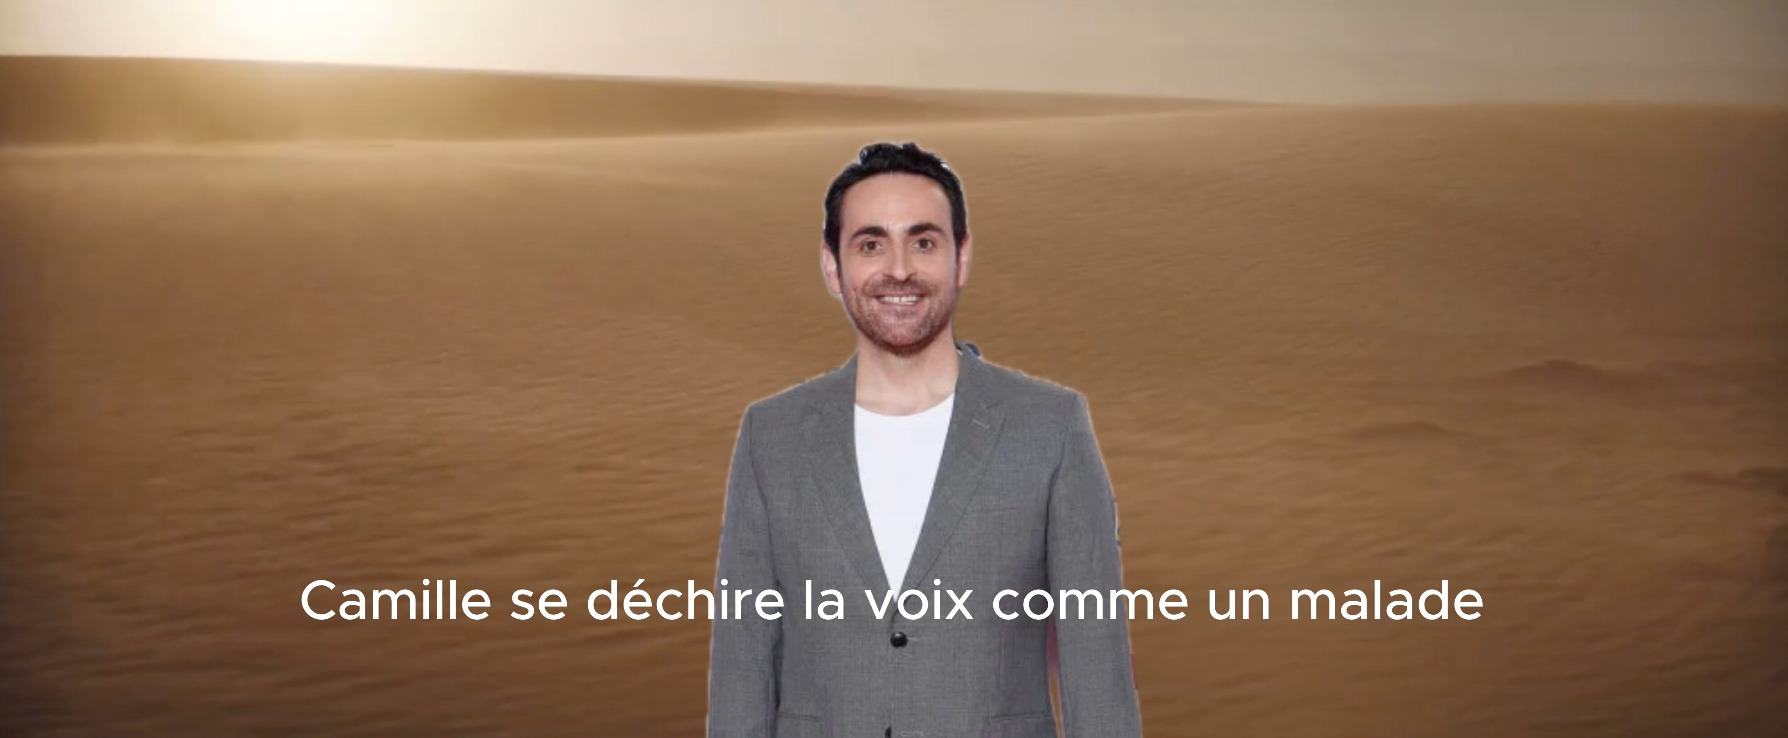
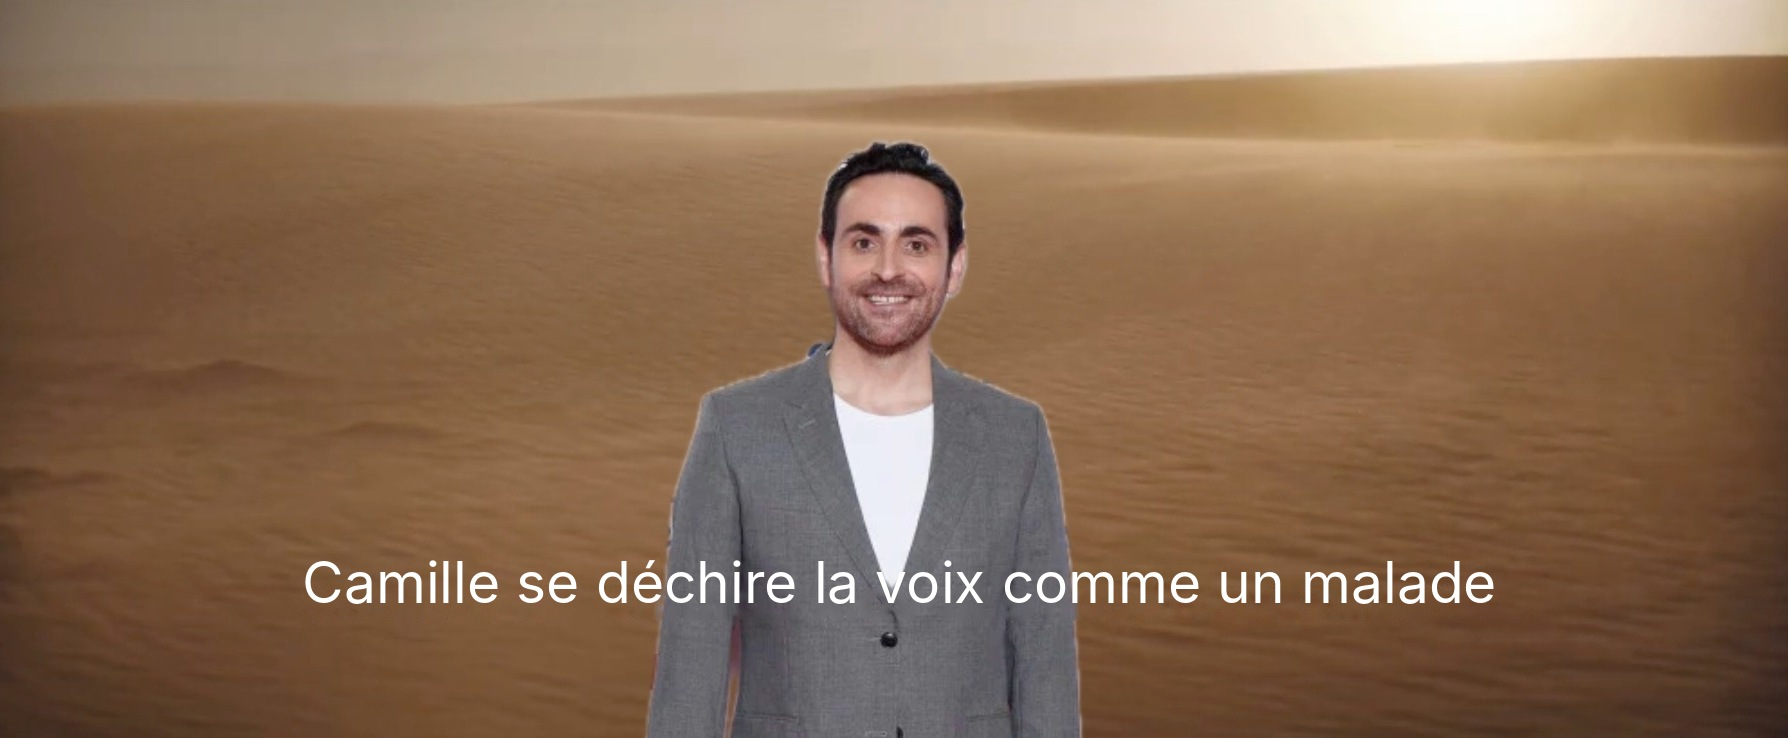
Dune #9 : miroir réf + clean (soleil à droite), lumière mise à jour
Claude-Session: https://claude.ai/code/session_015182LFh91P53rg7UUMPXi4

diff --git a/index.html b/index.html
@@ -113,9 +113,9 @@ nav.days a:focus-visible,.pic:focus-visible,button:focus-visible{outline:3px sol
 <dl class="grid"><div><dt>Diaph</dt><dd>f/4</dd></div><div><dt>Distance</dt><dd>4,2 m</dd></div><div><dt>Hauteur caméra</dt><dd>1,55 m</dd></div><div><dt>Inclinaison</dt><dd>légère contre-plongée 3°</dd></div></dl>
 <div class="light"><h4>Lumière</h4><p>Lumière de conférence plate et frontale, haute (≈ 5600 K), fond LED bleu WEF.</p><p class="ratio"><span>Ratio ≈ 1,2:1 (≈ 0,3 IL) · Key : frontale haute (conférence) · Contre : non</span></p></div><p class="vfx">Fond vert</p><p class="lfx"><span class="lfxv">—</span></p></div></div></div><div class="shot isref"><div class="shot-pic"><button class="pic" type="button" data-full="img/014.jpg" data-cap="RÉFÉRENCE (non tournée) · Macron / Atol · Personnage Atol (réf. look)" aria-label="Agrandir l&#39;image"><img src="img/014.jpg" alt="RÉFÉRENCE (non tournée) · Macron / Atol · Personnage Atol (réf. look)" loading="lazy" width="927" height="944"><span class="zoom">Agrandir</span></button><button class="lkbtn" type="button" data-img="img/014.jpg" data-cap="RÉFÉRENCE (non tournée) · Macron / Atol · Personnage Atol (réf. look)">◉ Incruste live</button></div><div class="shot-info"><p class="plan"><span class="refbadge">Référence · non tournée</span>Personnage Atol (réf. look)</p>
 <div class="light"><h4>Lumière</h4><p>—</p></div><p class="vfx">Chemise hawaïenne, Ray-Ban</p><p class="lfx"><span class="lfxv">—</span></p></div></div></article><article class="seq"><div class="keep"><h2>Dune</h2><p class="src">Origine : ARRI Alexa 65 + Mini LF, optiques sphériques Moviecam re-boîtées, pas d&#x27;anamorphique (British Cinematographer).</p><button class="vidbtn" type="button" data-src="vid/dune.mp4" data-cap="Vidéo de référence · Dune"><span class="pl">▶</span> Voir la vidéo de référence</button><div class="shot isref"><div class="shot-pic"><button class="pic" type="button" data-full="img/015.jpg" data-cap="RÉFÉRENCE (non tournée) · Dune · Plan large désert (réf. – non tourné)" aria-label="Agrandir l&#39;image"><img src="img/015.jpg" alt="RÉFÉRENCE (non tournée) · Dune · Plan large désert (réf. – non tourné)" loading="lazy" width="1788" height="743"><span class="zoom">Agrandir</span></button><button class="lkbtn" type="button" data-img="img/015.jpg" data-cap="RÉFÉRENCE (non tournée) · Dune · Plan large désert (réf. – non tourné)" data-vid="vid/dune.mp4">◉ Incruste live</button></div><div class="shot-info"><p class="plan"><span class="refbadge">Référence · non tournée</span>Plan large désert (réf. – non tourné)</p>
-<div class="light"><h4>Lumière</h4><p>Brume chaude, soleil diffus.</p></div><p class="vfx">Référence seulement, pas de tournage</p><p class="lfx"><span class="lfxv">—</span></p></div></div></div><div class="shot"><div class="shot-pic"><button class="pic" type="button" data-full="img/016.jpg" data-clean="img/clean/016.jpg?v=6541b23c" data-cap="#9 · Dune · Plan américain (Camille en costume)" aria-label="Agrandir l&#39;image"><img src="img/016.jpg" alt="#9 · Dune · Plan américain (Camille en costume)" loading="lazy" width="1788" height="738"><span class="zoom">Agrandir</span></button><button class="lkbtn" type="button" data-img="img/016.jpg" data-cap="#9 · Dune · Plan américain (Camille en costume)" data-vid="vid/dune.mp4">◉ Incruste live</button></div><div class="shot-info"><p class="plan"><span class="n">#9</span>Plan américain (Camille en costume)</p><div class="lens"><span class="chip gm">G Master 24-70</span><span class="foc">50 mm</span></div>
+<div class="light"><h4>Lumière</h4><p>Brume chaude, soleil diffus.</p></div><p class="vfx">Référence seulement, pas de tournage</p><p class="lfx"><span class="lfxv">—</span></p></div></div></div><div class="shot"><div class="shot-pic"><button class="pic" type="button" data-full="img/016.jpg" data-clean="img/clean/016.jpg?v=57d8e8cb" data-cap="#9 · Dune · Plan américain (Camille en costume)" aria-label="Agrandir l&#39;image"><img src="img/016.jpg" alt="#9 · Dune · Plan américain (Camille en costume)" loading="lazy" width="1788" height="738"><span class="zoom">Agrandir</span></button><button class="lkbtn" type="button" data-img="img/016.jpg" data-cap="#9 · Dune · Plan américain (Camille en costume)" data-vid="vid/dune.mp4">◉ Incruste live</button></div><div class="shot-info"><p class="plan"><span class="n">#9</span>Plan américain (Camille en costume)</p><div class="lens"><span class="chip gm">G Master 24-70</span><span class="foc">50 mm</span></div>
 <dl class="grid"><div><dt>Diaph</dt><dd>f/2.8</dd></div><div><dt>Distance</dt><dd>2,8 m</dd></div><div><dt>Hauteur caméra</dt><dd>1,60 m</dd></div><div><dt>Inclinaison</dt><dd>0°</dd></div></dl>
-<div class="light"><h4>Lumière</h4><p>Lumière diffuse et chaude (brume de sable), contre doux venant de l&#x27;arrière gauche, faible contraste, look ≈ 4000 K orangé.</p><p class="ratio"><span>Ratio ≈ 1,2:1 (≈ 0,3 IL) · Key : frontale diffuse (brume) · Contre : oui, doux, arrière gauche cadre</span></p></div><p class="vfx">VFX</p><p class="lfx"><span class="lfxv">—</span></p></div></div><div class="shot"><div class="shot-pic"><button class="pic" type="button" data-full="img/017.jpg" data-clean="img/clean/017.jpg?v=071f7947" data-cap="#10 · Dune · Plan serré" aria-label="Agrandir l&#39;image"><img src="img/017.jpg" alt="#10 · Dune · Plan serré" loading="lazy" width="1786" height="741"><span class="zoom">Agrandir</span></button><button class="lkbtn" type="button" data-img="img/017.jpg" data-cap="#10 · Dune · Plan serré" data-vid="vid/dune.mp4">◉ Incruste live</button></div><div class="shot-info"><p class="plan"><span class="n">#10</span>Plan serré</p><div class="lens"><span class="chip gm">G Master 70-200</span><span class="foc">100 mm</span></div>
+<div class="light"><h4>Lumière</h4><p>Lumière diffuse et chaude (brume de sable), contre doux venant de l&#x27;arrière droite, faible contraste, look ≈ 4000 K orangé.</p><p class="ratio"><span>Ratio ≈ 1,2:1 (≈ 0,3 IL) · Key : frontale diffuse (brume) · Contre : oui, doux, arrière droite cadre</span></p></div><p class="vfx">VFX</p><p class="lfx"><span class="lfxv">—</span></p></div></div><div class="shot"><div class="shot-pic"><button class="pic" type="button" data-full="img/017.jpg" data-clean="img/clean/017.jpg?v=071f7947" data-cap="#10 · Dune · Plan serré" aria-label="Agrandir l&#39;image"><img src="img/017.jpg" alt="#10 · Dune · Plan serré" loading="lazy" width="1786" height="741"><span class="zoom">Agrandir</span></button><button class="lkbtn" type="button" data-img="img/017.jpg" data-cap="#10 · Dune · Plan serré" data-vid="vid/dune.mp4">◉ Incruste live</button></div><div class="shot-info"><p class="plan"><span class="n">#10</span>Plan serré</p><div class="lens"><span class="chip gm">G Master 70-200</span><span class="foc">100 mm</span></div>
 <dl class="grid"><div><dt>Diaph</dt><dd>f/2.8</dd></div><div><dt>Distance</dt><dd>1,4 m</dd></div><div><dt>Hauteur caméra</dt><dd>1,50 m</dd></div><div><dt>Inclinaison</dt><dd>plongée 5°</dd></div></dl>
 <div class="light"><h4>Lumière</h4><p>Contre-jour doux et chaud depuis la droite, visage dans l&#x27;ombre, très faible contraste, halo de brume.</p><p class="ratio"><span>Ratio ≈ 1,5:1 (visage à l&#x27;ombre) — ≈ 0,6 IL · Key : pas de key : visage éclairé par le rebond · Contre : oui, contre-jour chaud droite cadre, ≈ +2 IL sur le visage</span></p></div><p class="vfx">VFX</p><p class="lfx"><span class="lfxv">—</span></p></div></div></article><article class="seq"><div class="keep"><h2>Le Seigneur des anneaux</h2><p class="src">Origine : Arricam / Arri 435-535, Zeiss Ultra Prime + zooms Angénieux Optimo, Super 35 2.39 (IMDb, AC 2004).</p><div class="shot isref"><div class="shot-pic"><button class="pic" type="button" data-full="img/018.jpg" data-cap="RÉFÉRENCE (non tournée) · Le Seigneur des anneaux · Gandalf (réf. lumière – non tourné)" aria-label="Agrandir l&#39;image"><img src="img/018.jpg" alt="RÉFÉRENCE (non tournée) · Le Seigneur des anneaux · Gandalf (réf. lumière – non tourné)" loading="lazy" width="1918" height="790"><span class="zoom">Agrandir</span></button><button class="lkbtn" type="button" data-img="img/018.jpg" data-cap="RÉFÉRENCE (non tournée) · Le Seigneur des anneaux · Gandalf (réf. lumière – non tourné)">◉ Incruste live</button></div><div class="shot-info"><p class="plan"><span class="refbadge">Référence · non tournée</span>Gandalf (réf. lumière – non tourné)</p>
 <div class="light"><h4>Lumière</h4><p>Jour couvert, diffus, de ¾ face gauche haute, froid désaturé (≈ 6500 K).</p></div><p class="vfx">Référence seulement pour matcher la lumière, on ne tourne pas ce plan</p><p class="lfx"><span class="lfxv">—</span></p></div></div></div><div class="shot"><div class="shot-pic"><button class="pic" type="button" data-full="img/019.jpg" data-clean="img/clean/019.jpg?v=272f20cf" data-cap="#11 · Le Seigneur des anneaux · Pippin – Camille à la place du jeune" aria-label="Agrandir l&#39;image"><img src="img/019.jpg" alt="#11 · Le Seigneur des anneaux · Pippin – Camille à la place du jeune" loading="lazy" width="1400" height="563"><span class="zoom">Agrandir</span></button><button class="lkbtn" type="button" data-img="img/019.jpg" data-cap="#11 · Le Seigneur des anneaux · Pippin – Camille à la place du jeune">◉ Incruste live</button></div><div class="shot-info"><p class="plan"><span class="n">#11</span>Pippin – Camille à la place du jeune</p><div class="lens"><span class="chip gm">G Master 24-70</span><span class="foc">50 mm</span></div>

diff --git a/sw.js b/sw.js
@@ -1,5 +1,5 @@
 /* Mode hors ligne – La Grande Incruste 3 */
-const CORE='lgi-core-dd68bfd28d',IMG='lgi-img-v3',VID='lgi-vid-v1',RUN='lgi-run-v1';
+const CORE='lgi-core-b0155787a5',IMG='lgi-img-v4',VID='lgi-vid-v1',RUN='lgi-run-v1';
 const FILES=['./','index.html','live.html','textes.json','diffusion.js','pdt.js','pdt.json','clean.js','offline.js','manifest.json','icon-192.png','icon-512.png'];
 const IMGS=["img/001.jpg", "img/002.jpg", "img/003.jpg", "img/004.jpg", "img/005.jpg", "img/006.jpg", "img/007.jpg", "img/008.jpg", "img/009.jpg", "img/010.jpg", "img/011.jpg", "img/012.jpg", "img/013.jpg", "img/014.jpg", "img/015.jpg", "img/016.jpg", "img/017.jpg", "img/018.jpg", "img/019.jpg", "img/020.jpg", "img/021.jpg", "img/022.jpg", "img/023.jpg", "img/024.jpg", "img/025.jpg", "img/026.jpg", "img/027.jpg", "img/028.jpg", "img/029.jpg", "img/030.jpg", "img/031.jpg", "img/032.jpg", "img/033.jpg", "img/034.jpg", "img/035.jpg", "img/036.jpg", "img/037.jpg", "img/038.jpg", "img/039.jpg", "img/040.jpg", "img/041.jpg", "img/042.jpg", "img/043.jpg", "img/044.jpg", "img/045.jpg", "img/046.jpg", "img/047.jpg", "img/048.jpg", "img/049.jpg", "img/050.jpg", "img/051.jpg", "img/052.jpg", "img/053.jpg", "img/054.jpg", "img/055.jpg", "img/056.jpg", "img/057.jpg", "img/058.jpg", "img/059.jpg", "img/060.jpg", "img/061.jpg", "img/062.jpg", "img/063.jpg", "img/064.jpg", "img/065.jpg", "img/066.jpg", "img/067.jpg", "img/068.jpg", "img/069.jpg", "img/070.jpg", "img/071.jpg", "img/072.jpg", "img/073.jpg", "img/074.jpg", "img/075.jpg", "img/076.jpg", "img/077.jpg", "img/078.jpg", "img/079.jpg", "img/080.jpg", "img/081.jpg", "img/082.jpg", "img/083.jpg", "img/084.jpg", "img/085.jpg", "img/086.jpg", "img/087.jpg", "img/088.jpg", "img/089.jpg", "img/090.jpg", "img/091.jpg", "img/092.jpg", "img/093.jpg", "img/094.jpg", "img/095.jpg", "img/096.jpg", "img/097.jpg", "img/098.jpg", "img/099.jpg", "img/100.jpg", "img/101.jpg", "img/102.jpg", "img/103.jpg", "img/104.jpg", "img/105.jpg", "img/106.jpg", "img/107.jpg", "img/108.jpg", "img/109.jpg", "img/110.jpg", "img/111.jpg", "img/112.jpg", "img/113.jpg", "img/114.jpg", "img/115.jpg", "img/116.jpg", "img/117.jpg", "img/118.jpg", "img/119.jpg", "img/120.jpg", "img/121.jpg", "img/122.jpg", "img/123.jpg", "img/124.jpg", "img/125.jpg", "img/126.jpg", "img/127.jpg", "img/128.jpg", "img/129.jpg", "img/130.jpg", "img/131.jpg", "img/132.jpg", "img/133.jpg", "img/134.jpg", "img/135.jpg", "img/136.jpg", "img/137.jpg", "img/138.jpg", "img/139.jpg", "img/140.jpg", "img/141.jpg", "img/142.jpg", "img/143.jpg", "img/144.jpg", "img/145.jpg", "img/146.jpg", "img/147.jpg", "img/148.jpg", "img/149.jpg", "img/150.jpg", "img/151.jpg", "img/152.jpg", "img/153.jpg", "img/154.jpg", "img/155.jpg", "img/156.jpg", "img/157.jpg", "img/158.jpg", "img/159.jpg", "img/160.jpg", "img/161.jpg", "img/162.jpg", "img/163.jpg", "img/164.jpg", "img/V_court.jpg", "img/V_moto_large.jpg", "img/V_moto_serre.jpg", "img/V_sol.jpg", "img/clean/001.jpg", "img/clean/002.jpg", "img/clean/004.jpg", "img/clean/005.jpg", "img/clean/009.jpg", "img/clean/010.jpg", "img/clean/011.jpg", "img/clean/012.jpg", "img/clean/013.jpg", "img/clean/016.jpg", "img/clean/017.jpg", "img/clean/019.jpg", "img/clean/020.jpg", "img/clean/021.jpg", "img/clean/022.jpg", "img/clean/023.jpg", "img/clean/024.jpg", "img/clean/025.jpg", "img/clean/026.jpg", "img/clean/028.jpg", "img/clean/029.jpg", "img/clean/032.jpg", "img/clean/035.jpg", "img/clean/039.jpg", "img/clean/040.jpg", "img/clean/042.jpg", "img/clean/043.jpg", "img/clean/044.jpg", "img/clean/045.jpg", "img/clean/046.jpg", "img/clean/048.jpg", "img/clean/050.jpg", "img/clean/052.jpg", "img/clean/070.jpg", "img/clean/071.jpg", "img/clean/073.jpg", "img/clean/074.jpg", "img/clean/075.jpg", "img/clean/076.jpg", "img/clean/077.jpg", "img/clean/078.jpg", "img/clean/079.jpg", "img/clean/081.jpg", "img/clean/084.jpg", "img/clean/089.jpg", "img/clean/090.jpg", "img/clean/093.jpg", "img/clean/100.jpg", "img/clean/101.jpg", "img/clean/103.jpg", "img/clean/105.jpg", "img/clean/106.jpg", "img/clean/108.jpg", "img/clean/110.jpg", "img/clean/111.jpg", "img/clean/112.jpg", "img/clean/114.jpg"];
 self.addEventListener('install',e=>{self.skipWaiting();e.waitUntil((async()=>{

diff --git a/_source/offline.js b/_source/offline.js
@@ -8,7 +8,7 @@ var b1=document.createElement('button'),b2=document.createElement('button');b1.t
 menu.insertBefore(b2,menu.firstChild);menu.insertBefore(b1,menu.firstChild);
 function cnt(n){return caches.open(n).then(function(c){return c.keys()}).then(function(k){return k.length}).catch(function(){return 0})}
 function vids(){var s={};[].forEach.call(document.querySelectorAll('[data-vid]'),function(b){s[new URL(b.dataset.vid,location.href).href]=1});return Object.keys(s)}
-function paint(){Promise.all([cnt('lgi-img-v3'),cnt('lgi-vid-v1')]).then(function(r){var nv=vids().length;
+function paint(){Promise.all([cnt('lgi-img-v4'),cnt('lgi-vid-v1')]).then(function(r){var nv=vids().length;
   b1.textContent='📲 Hors ligne : '+(r[0]?'images prêtes ('+r[0]+')':ok?'préparation en cours…':'indisponible ici');
   b2.textContent='⬇ Vidéos hors ligne : '+r[1]+'/'+nv+(r[1]<nv?' — télécharger (~220 Mo)':' ✓')})}
 document.getElementById('edmore').addEventListener('click',paint);paint();

diff --git a/_source/sw.js b/_source/sw.js
@@ -1,5 +1,5 @@
 /* Mode hors ligne – La Grande Incruste 3 */
-const CORE='__CORE__',IMG='lgi-img-v3',VID='lgi-vid-v1',RUN='lgi-run-v1';
+const CORE='__CORE__',IMG='lgi-img-v4',VID='lgi-vid-v1',RUN='lgi-run-v1';
 const FILES=['./','index.html','live.html','textes.json','diffusion.js','pdt.js','pdt.json','clean.js','offline.js','manifest.json','icon-192.png','icon-512.png'];
 const IMGS=__IMGS__;
 self.addEventListener('install',e=>{self.skipWaiting();e.waitUntil((async()=>{

diff --git a/_source/ana.py b/_source/ana.py
@@ -18,7 +18,7 @@ a(12,GM16,"24 mm","f/8","8","1,60","0°","Soleil dur haut, ombres courtes et net
 a(13,GM70,"100 mm","f/4","4,2","1,55","légère contre-plongée 3°","Lumière de conférence plate et frontale, haute (≈ 5600 K), fond LED bleu WEF.","Plan taille au pupitre, fond flou mais lisible.")
 a(14,None,None,None,None,None,None,"—","Réf. de look (chemise hawaïenne, Ray-Ban), pas de valeur de plan.")
 a(15,None,None,None,None,None,None,"Brume chaude, soleil diffus.","Plan large de référence : couple assis de dos sur la dune, Camille placé en petit à droite. Échelle et position de Camille dans le désert.")
-a(16,GM70,"85 mm","f/2.8","4,8","1,60","0°","Lumière diffuse et chaude (brume de sable), contre doux venant de l'arrière gauche, faible contraste, look ≈ 4000 K orangé.","Désert complètement fondu derrière : longue focale.")
+a(16,GM70,"85 mm","f/2.8","4,8","1,60","0°","Lumière diffuse et chaude (brume de sable), contre doux venant de l'arrière droite, faible contraste, look ≈ 4000 K orangé.","Désert complètement fondu derrière : longue focale.")
 a(17,GM70,"100 mm","f/2","1,4","1,50","plongée 5°","Contre-jour doux et chaud depuis la droite, visage dans l'ombre, très faible contraste, halo de brume.","Profil serré, fond totalement dissous.")
 a(18,FD,"50 mm","f/2.8","1,2","1,50","contre-plongée 10° (point de vue Pippin)","Jour couvert, diffus, de ¾ face gauche haute, froid désaturé (≈ 6500 K).","Visage proche, mur derrière encore lisible.")
 a(19,FD,"50 mm","f/2.8","1,3","1,70","plongée 15° (point de vue Gandalf)","Jour couvert diffus de la gauche, froid, mur de pierre derrière ; amorce perruque blanche floue à gauche.","Champ/contrechamp avec Gandalf : même focale.")

diff --git a/_source/ratios_data.py b/_source/ratios_data.py
@@ -9,7 +9,7 @@ RT={
 '009':('2:1','¾, gauche cadre','non'),
 '070':('1,5:1','haute et frontale (projecteurs multiples)','léger, projecteurs hauts du stade derrière'),
 '013':('1,2:1','frontale haute (conférence)','non'),
-'016':('1,2:1','frontale diffuse (brume)','oui, doux, arrière gauche cadre'),
+'016':('1,2:1','frontale diffuse (brume)','oui, doux, arrière droite cadre'),
 '017':('1,5:1 (visage à l\'ombre)','pas de key : visage éclairé par le rebond','oui, contre-jour chaud droite cadre, ≈ +2 IL sur le visage'),
 '019':('1,5:1','¾ latérale, gauche cadre (jour couvert)','non'),
 '020':('2:1','¾, gauche cadre (low key)','léger, appliques derrière (practicals)'),
